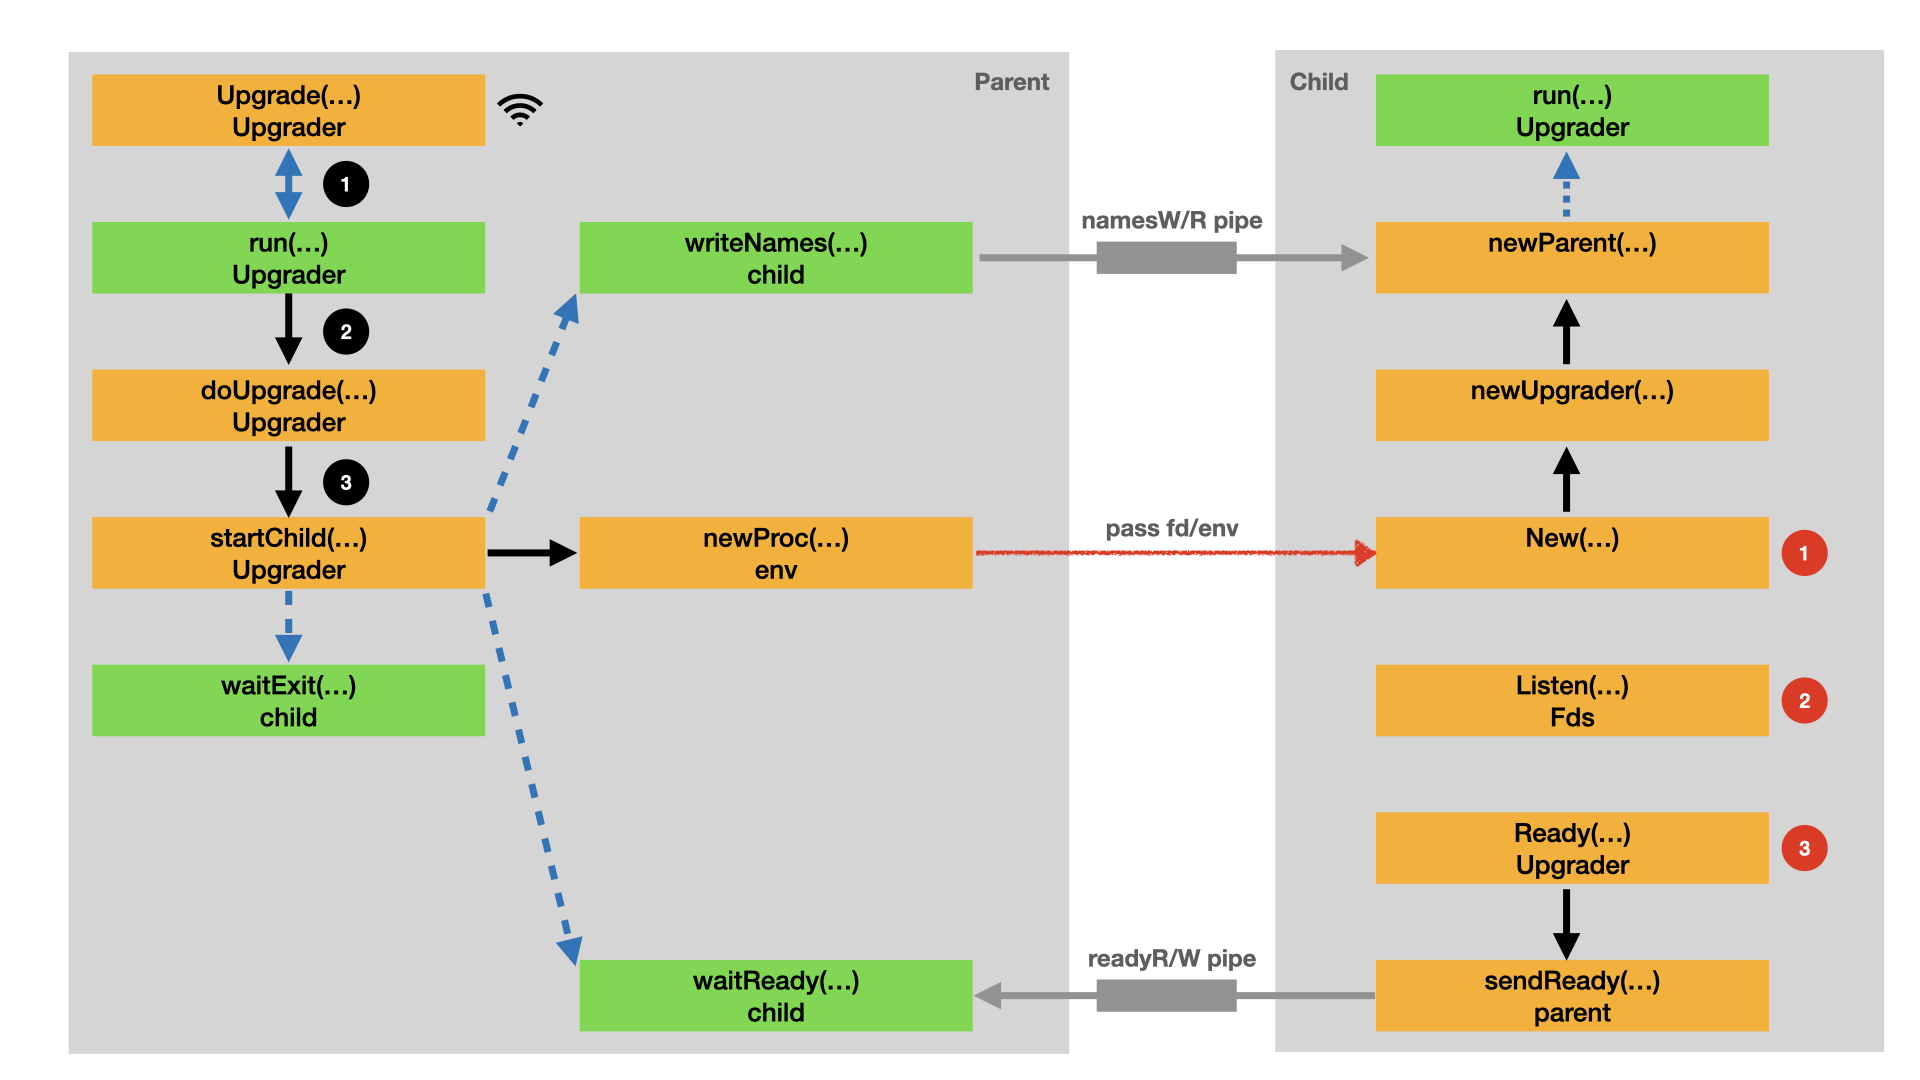
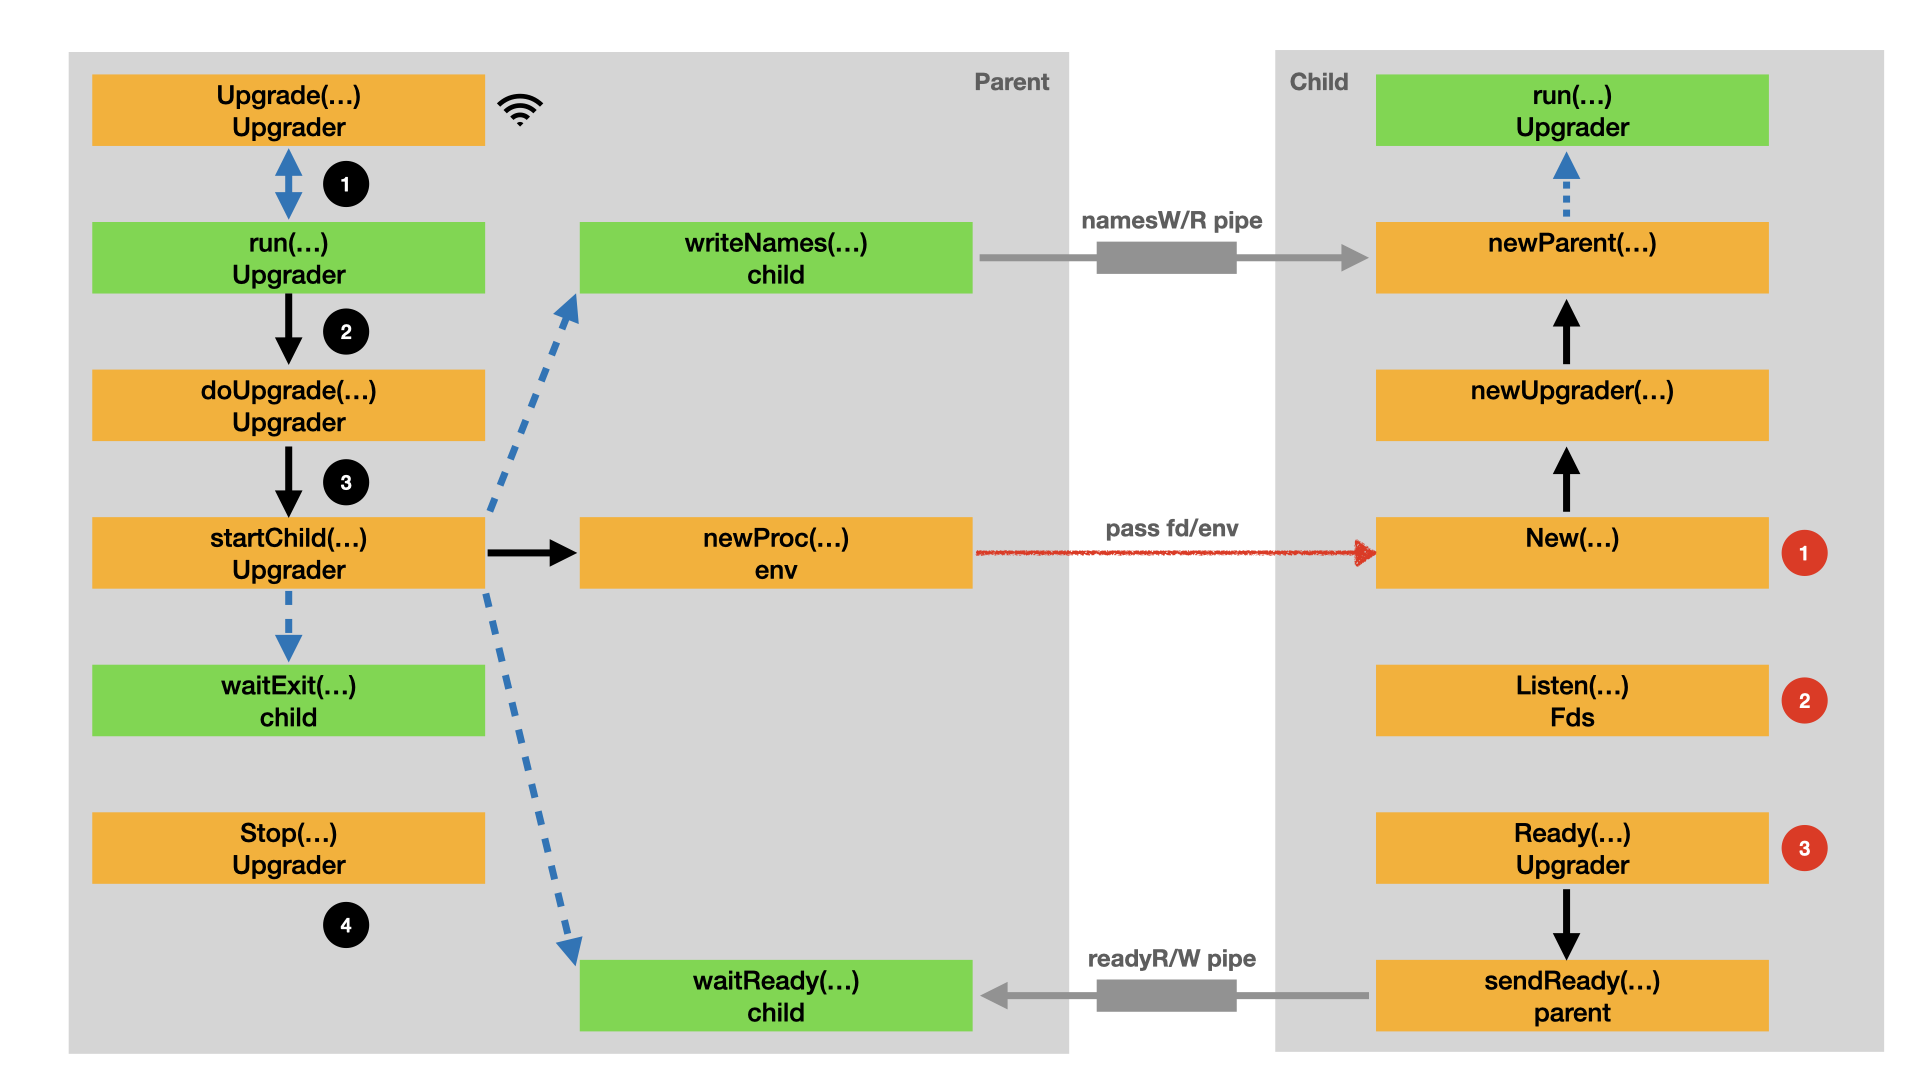
update content in design.md and images/ directory

Changed region(s): [[0.0312, 0.7333, 0.25, 0.8861], [0.5, 0.9167, 0.5312, 0.9472]]

diff --git a/tableflip/design.md b/tableflip/design.md
@@ -1,6 +1,6 @@
 # Understand tableflip design
 
-The key design of tableflip is the parent process and child process share the same sockets. The parent process is the old version. The child process is the new one.
+The key design of tableflip is the parent process and child process share the same sockets. The parent process is the old version. The child process is the new version. With the help from tableflip, zero downtime upgrade is possible.
 
 There is another way to pass FD between different processes (process without inheritance relationship). See [here](https://github.com/ericwq/examples/tree/main/socket_dup) for detail.
 
@@ -25,7 +25,7 @@ For those share (listen socket) file descriptors processes, kernel will send inc
     })
 ```
 
-In the following diagram, `env.newProc()` starts the child process, passes the (listen socket) file descriptors to the child process. Thus parent and child process share the same (listen socket) file descriptors. Here plural means more than one (listen socket) file descriptors can be passed to the child process.
+In the following diagram, `env.newProc()` starts the child process, passes the (listen socket) file descriptors to the child process. Thus parent and child process share the same (listen socket) file descriptors. Here plural means more than one (listen socket) file descriptor can be passed to the child process.
 
 ![tableflip.001.png](images/tableflip.001.png)
 
@@ -35,6 +35,14 @@ In the following diagram, `env.newProc()` starts the child process, passes the (
 - [The evolution of reuseport in the Linux kernel](https://programmer.group/the-evolution-of-reuseport-in-the-linux-kernel.html)
 
 ## Upgrade procedure
+
+- [Parent process part 1 - black](#parent-process-part-1---black)
+- [Parent process part 2 - black](#parent-process-part-2---black)
+- [Parent process part 3 - black](#parent-process-part-3---black)
+- [Child process part 1 - red](#child-process-part-1---red)
+- [Child process part 2 - red](#child-process-part-2---red)
+- [Child process part 3 - red](#child-process-part-3---red)
+- [Parent process part 4 - black](#parent-process-part-4---black)
 
 Let's assume the tableflip based application is running and providing service to the clients. Now you upload the new application version to the target server. You can upload the new configuration for the application or continue with the old configuration.
 
@@ -416,7 +424,7 @@ func newUpgrader(env *env, opts Options) (*Upgrader, error) {
 - `newUpgrader()` calls `newParent()` to build the parent object.
 - `newUpgrader()` calls `newFds()` to build the inherited FD map.
 - `newUpgrader()` builds `Upgrader` object and starts a `Upgrader.run()` goroutine.
-- You has already see the `Upgrader.run()` in the [Parent process part](#parent-process-part).
+- You has already see the `Upgrader.run()` in the [Parent process part 1 - black](#parent-process-part-1---black)
 
 ```go
 const (
